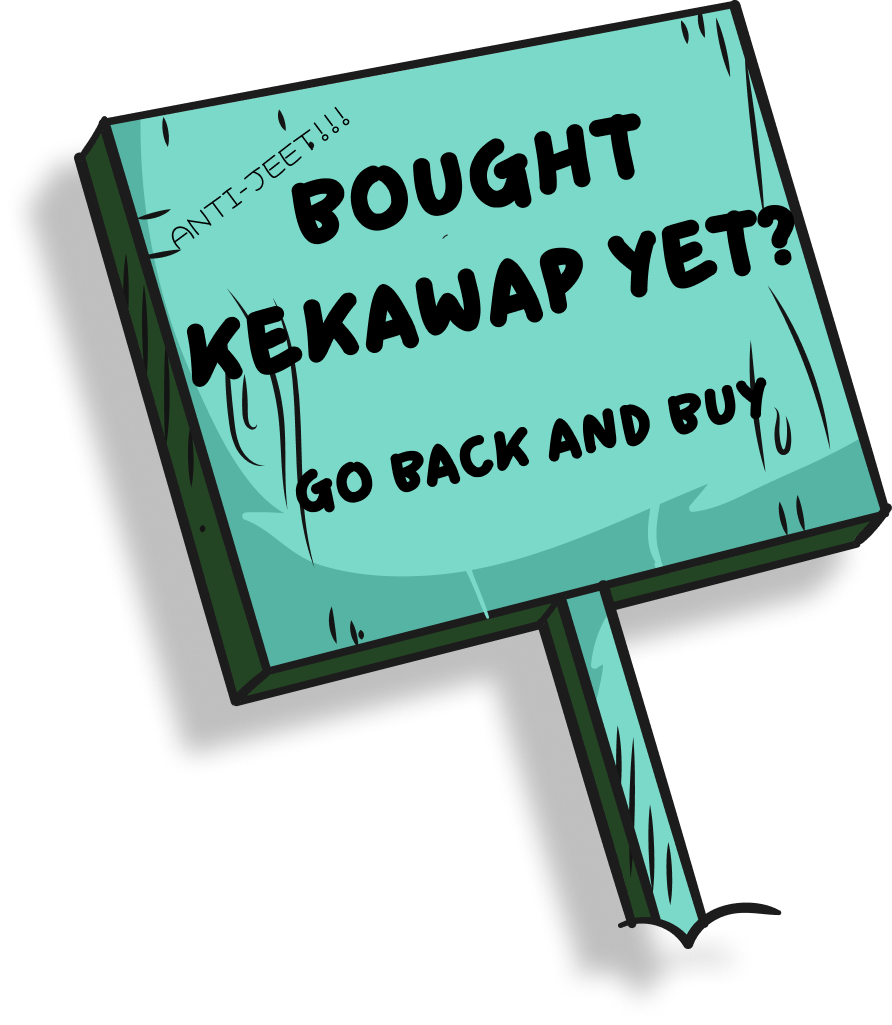
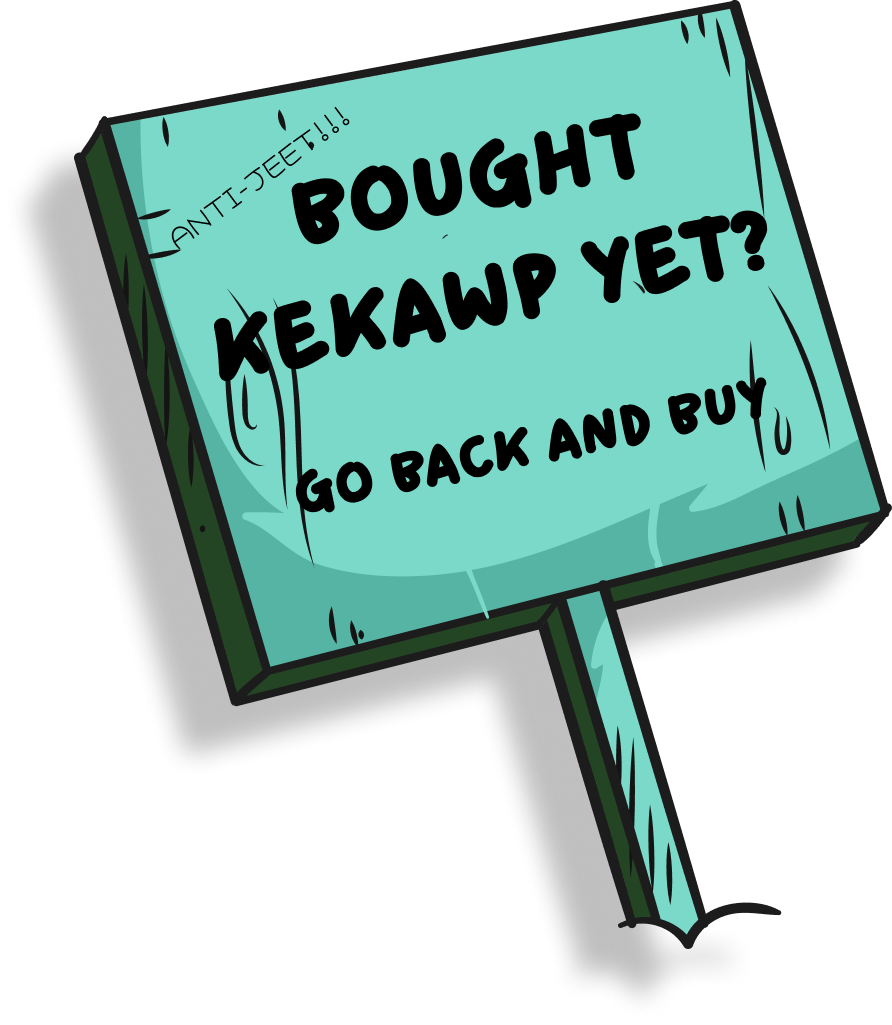
dds

Changed region(s): [[0.2119, 0.1873, 0.9081, 0.3746]]

diff --git a/src/pages/About.js b/src/pages/About.js
@@ -12,8 +12,8 @@ function About() {
     <div className="total flex">
       <div className="about flex flex-col justify-center items-center lg:w-1/2">
       <img src={Trespass} alt="" className='w-80 lg:hidden' />
-      <p className='snackid text-7xl     text-center mb-10  '>ABOUT KEKAWAP</p>
-      <p className='hachi text-xl text-center lg:text-left lg:ml-5 p-2'>KEKAWAP AI is here to make sure you don`t miss any good snipes. You get pinged in time to setup and start winning</p>
+      <p className='snackid text-7xl     text-center mb-10  '>ABOUT KEKAWP</p>
+      <p className='hachi text-xl text-center lg:text-left lg:ml-5 p-2'>KEKAWP AI is here to make sure you don`t miss any good snipes. You get pinged in time to setup and start winning</p>
       <img src={Containersmob} alt="" className='w-80  lg:hidden' />
 
 

diff --git a/public/index.html b/public/index.html
@@ -7,7 +7,7 @@
     <meta name="theme-color" content="#000000" />
     <meta
       name="description"
-      content="Web site created using create-react-app"
+      content="KEKAWAP"
     />
     <link rel="apple-touch-icon" href="%PUBLIC_URL%/logo192.png" />
     <!--
@@ -24,7 +24,7 @@
       work correctly both with client-side routing and a non-root public URL.
       Learn how to configure a non-root public URL by running `npm run build`.
     -->
-    <title>React App</title>
+    <title>KEKAWAP</title>
   </head>
   <body>
     <noscript>You need to enable JavaScript to run this app.</noscript>

diff --git a/src/components/Header.js b/src/components/Header.js
@@ -5,7 +5,7 @@ import Buykekai from "../assets/buykekai.png"
 
 function Header() {
   return (
-    <div className=' w-full flex flero  justify-between items-center px-8 absolute z-30 mt-4'>
+    <div className=' w-full flex flero  justify-between items-center px-8 fixed top-0 z-30 pt-1 bg-black/20 '>
       <img src={sitelogo} alt="" className='w-32 lg:w-auto'/>
       {/* menupart */}
       <img src={Buykekai} alt="" />
